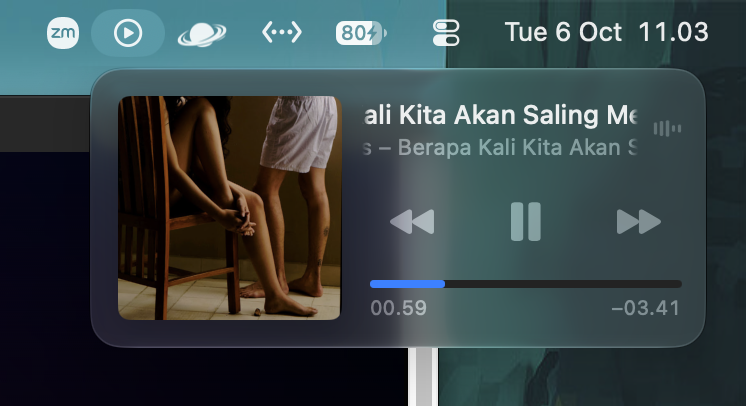
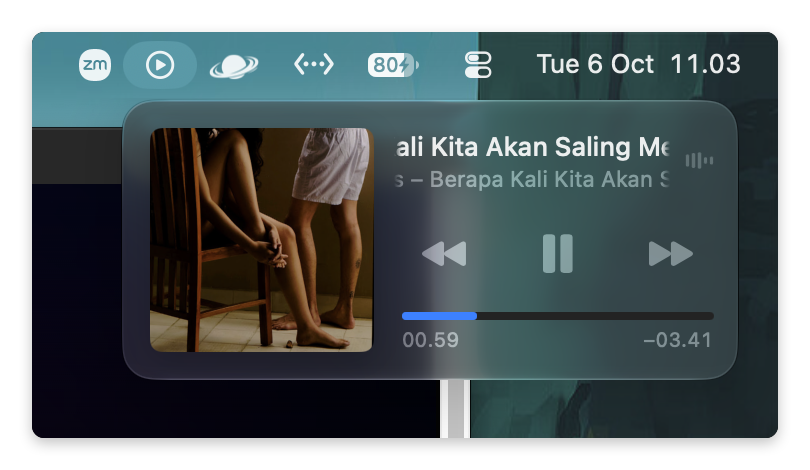
docs: update readme.md

diff --git a/README.md b/README.md
@@ -9,9 +9,12 @@ Your music keeps playing when you close the window. Click the Music icon in the 
 
 ## Download
 
-[![Download latest version for Apple Silicon](https://img.shields.io/badge/Download_latest-Apple_Silicon-0969da?style=for-the-badge&logo=apple&logoColor=white)](https://github.com/indradprasetya/yt-music-webkit/releases/download/v1.1.1/Music-1.1.1-Apple-Silicon.dmg) For Macs with Apple Silicon chips: M1, M2, M3, and later.
+[![Download latest version for Apple Silicon](https://img.shields.io/badge/Download_latest-Apple_Silicon-0969da?style=for-the-badge&logo=apple&logoColor=white)](https://github.com/indradprasetya/yt-music-webkit/releases/download/v1.1.1/Music-1.1.1-Apple-Silicon.dmg)<br>
+<span style="font-size: 0.8em;">For Macs with Apple Silicon chips: M1, M2, M3, and later.</span>
 
-[![Download latest version for Intel](https://img.shields.io/badge/Download_latest-Intel-0969da?style=for-the-badge&logo=apple&logoColor=white)](https://github.com/indradprasetya/yt-music-webkit/releases/download/v1.1.1/Music-1.1.1-Intel.dmg) For Macs with an Intel processor.
+
+[![Download latest version for Intel](https://img.shields.io/badge/Download_latest-Intel-0969da?style=for-the-badge&logo=apple&logoColor=white)](https://github.com/indradprasetya/yt-music-webkit/releases/download/v1.1.1/Music-1.1.1-Intel.dmg)<br>
+<span style="font-size: 0.8em;">For Macs with an Intel processor.</span>
 
 [See GitHub Releases](https://github.com/indradprasetya/yt-music-webkit/releases)
 
@@ -19,11 +22,15 @@ Your music keeps playing when you close the window. Click the Music icon in the 
 
 ### Music window
 
-![YouTube Music playing in the native macOS Music window](docs/screenshots/music-window.png)
+<p align="center">
+  <img src="docs/screenshots/music-window.png" alt="YouTube Music playing in the native macOS Music window" style="display: block; margin: 0 auto;">
+</p>
 
 ### macOS Now Playing
 
-![macOS Now Playing controls with album artwork, playback controls, and track progress](docs/screenshots/now-playing.png)
+<p align="center">
+  <img src="docs/screenshots/now-playing.png" alt="macOS Now Playing controls with album artwork, playback controls, and track progress" style="display: block; margin: 0 auto;">
+</p>
 
 ## Privacy
 
